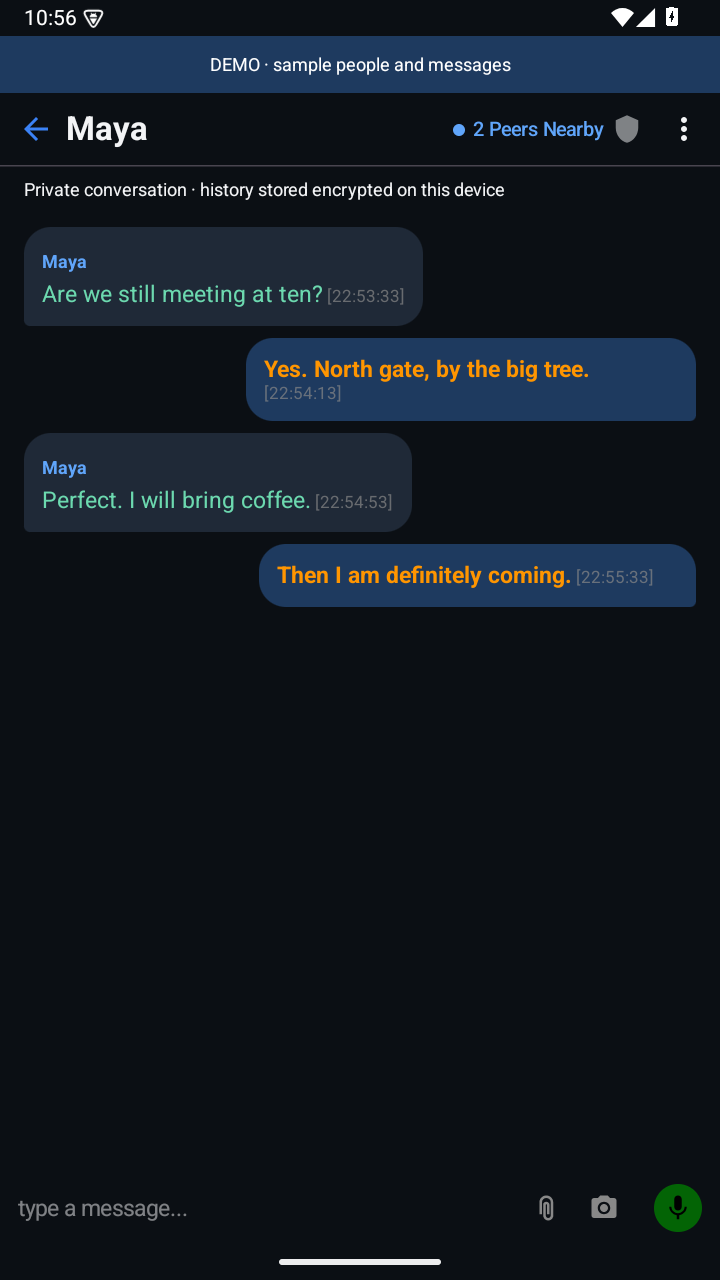
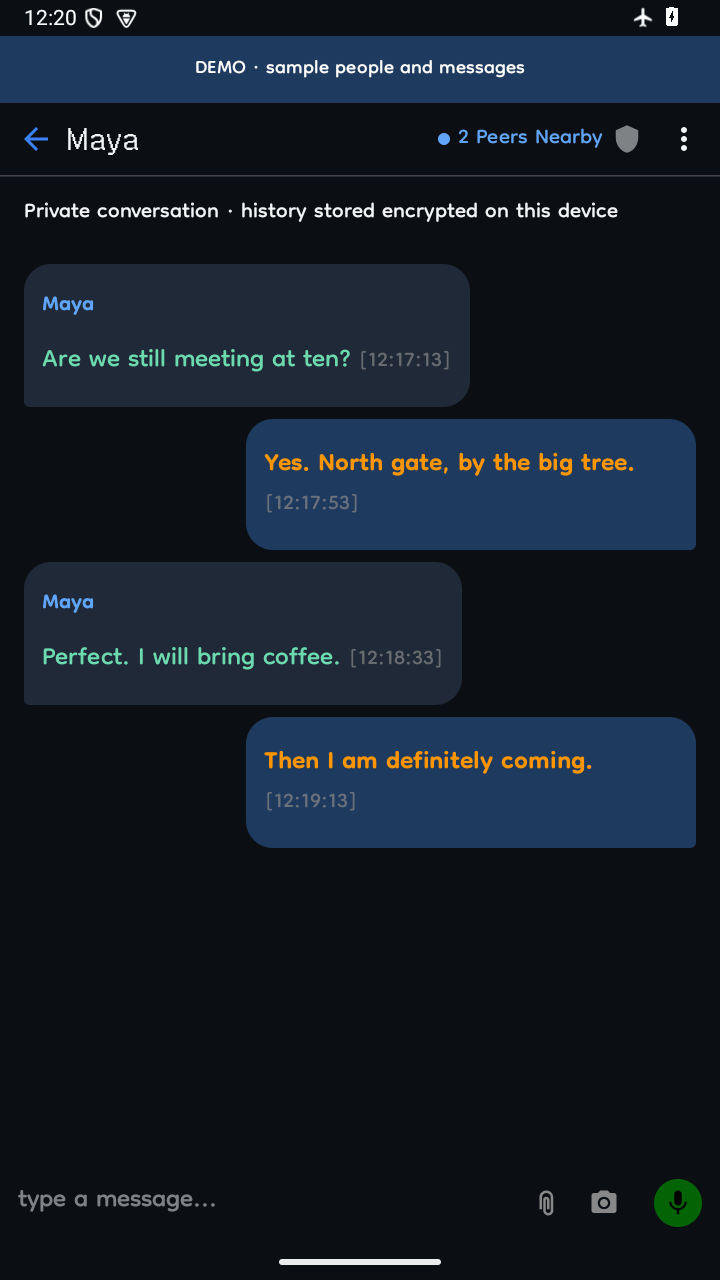
Update README and improve demo screenshots for clarity and consistency

diff --git a/app/src/androidTest/java/com/bitchat/android/screenshots/DemoScreenshotInstrumentation.kt b/app/src/androidTest/java/com/bitchat/android/screenshots/DemoScreenshotInstrumentation.kt
@@ -9,12 +9,12 @@ import android.os.Bundle
 import androidx.activity.compose.setContent
 import androidx.compose.foundation.background
 import androidx.compose.foundation.layout.*
+import androidx.compose.material3.MaterialTheme
 import androidx.compose.material3.Text
 import androidx.compose.ui.Alignment
 import androidx.compose.ui.Modifier
 import androidx.compose.ui.graphics.Color
 import androidx.compose.ui.unit.dp
-import androidx.compose.ui.unit.sp
 import com.bitchat.android.MainActivity
 import com.bitchat.android.model.BitchatMessage
 import com.bitchat.android.service.MeshServiceHolder
@@ -79,7 +79,8 @@ class DemoScreenshotInstrumentation : Instrumentation() {
                         Column(Modifier.fillMaxSize().background(Color(0xFF0B0F14)).statusBarsPadding()) {
                             Box(Modifier.fillMaxWidth().background(Color(0xFF1E3A5F)).padding(8.dp),
                                 contentAlignment = Alignment.Center) {
-                                Text("DEMO · sample people and messages", color = Color.White, fontSize = 12.sp)
+                                Text("DEMO · sample people and messages", color = Color.White,
+                                    style = MaterialTheme.typography.labelSmall)
                             }
                             Box(Modifier.weight(1f)) { ChatScreen(model) }
                         }

diff --git a/README.md b/README.md
@@ -1,41 +1,39 @@
 # Purpose
 
-**The people beside you are still there when the network is gone.**
+**The right to speak should survive a lost signal.**
 
-Outpost is a nearby messenger for Android, built on BitChat. It brings familiar conversations to the radios already in our pockets, without asking for a phone number or email address.
+Outpost is for secrets between friends, people finding each other at protests, or a casual space to meet ppl
 
-Sometimes, “Did you bring snacks?” should only have to travel across the park.
+Built on BitChat, it gives nearby messaging a familiar home on Android. No phone number. No email. Your profile begins on your device.
+
 
 ## How
 
-1. **Choose a name.** Your profile is created on your phone.
-2. **Turn on Bluetooth.** Allow the nearby connection permissions Android requests.
-3. **Find your people.** Start a private chat with someone nearby.
-4. **Make a group.** Share an invitation link or QR code with the people you want there.
+Choose a name, enable Bluetooth, and allow the nearby connection permissions. Find someone nearby and start a private chat. For a group, share an invitation link or QR code with the people you want there.
 
-Participating phones can pass messages onward through the mesh. Reach depends on nearby devices, distance, walls, batteries, and Android’s background rules.
+Participating phones can carry messages through the mesh without mobile data or WiFi. Reach depends on nearby devices, distance, walls, batteries, and Android’s background rules. An invitation alone cannot connect distant phones.
 
 ## What
 
-* Private conversations and invited groups.
+* Encrypted private conversations and invited groups.
 * Small photos, files, and short voice notes.
 * Encrypted text history kept on your phone.
 * Controls to clear a chat, leave a group, or erase your profile and app data from this device.
 
-### Inside the app
+### See it
 
 <a href="docs/images/profile.png"><img src="docs/images/profile.png" width="160" alt="Outpost profile creation screen"></a>
 <a href="docs/images/nearby-demo.png"><img src="docs/images/nearby-demo.png" width="160" alt="Labeled Outpost demo showing two sample nearby contacts"></a>
 <a href="docs/images/chat-demo.png"><img src="docs/images/chat-demo.png" width="160" alt="Labeled Outpost demo showing messages between Alex and Maya"></a>
 <a href="docs/images/erase.png"><img src="docs/images/erase.png" width="160" alt="Outpost account erasure confirmation explaining what is removed"></a>
 
-Screens captured in an Android emulator. The nearby contacts and conversation are clearly labeled samples, not a live Bluetooth exchange. Tap a screenshot to enlarge it.
+Captured in an Android emulator. Screens marked DEMO use sample contacts and messages. Tap to enlarge.
 
-### Yours to understand
+### Know the limits
 
-Nearby public chat is visible to the mesh. Anyone holding a group invitation can read, send, and invite others. Deletion affects your device; other people keep their copies.
+Public chat is visible to the mesh. Anyone with a group invitation can read, send, and invite others. Erasing removes app data from this device; other people’s copies and your exported files remain.
 
-This release candidate still needs physical Bluetooth delivery validation and release signing. Private text is limited to 255 encoded bytes and files to 96 KB. Invitations do not guarantee delivery to someone far away.
+**Release candidate.** Physical Bluetooth delivery still needs validation, and release signing is pending. There has been no independent security audit. Read the [validation report](docs/single-device-validation.md) before relying on it for sensitive conversations. Private text is limited to 255 encoded bytes and files to 96 KB.
 
 ### Try it
 
@@ -47,4 +45,4 @@ Requires Android 8 or newer with Bluetooth Low Energy. To build, use JDK 17 and 
 
 [Build and test](docs/development.md) · [Validation](docs/single-device-validation.md) · [About](ABOUT.md) · [License](LICENSE.md)
 
-Built with gratitude to BitChat and its contributors. Shared under GPLv3.
+Built on the work of BitChat and its contributors. Open source under GPLv3.
